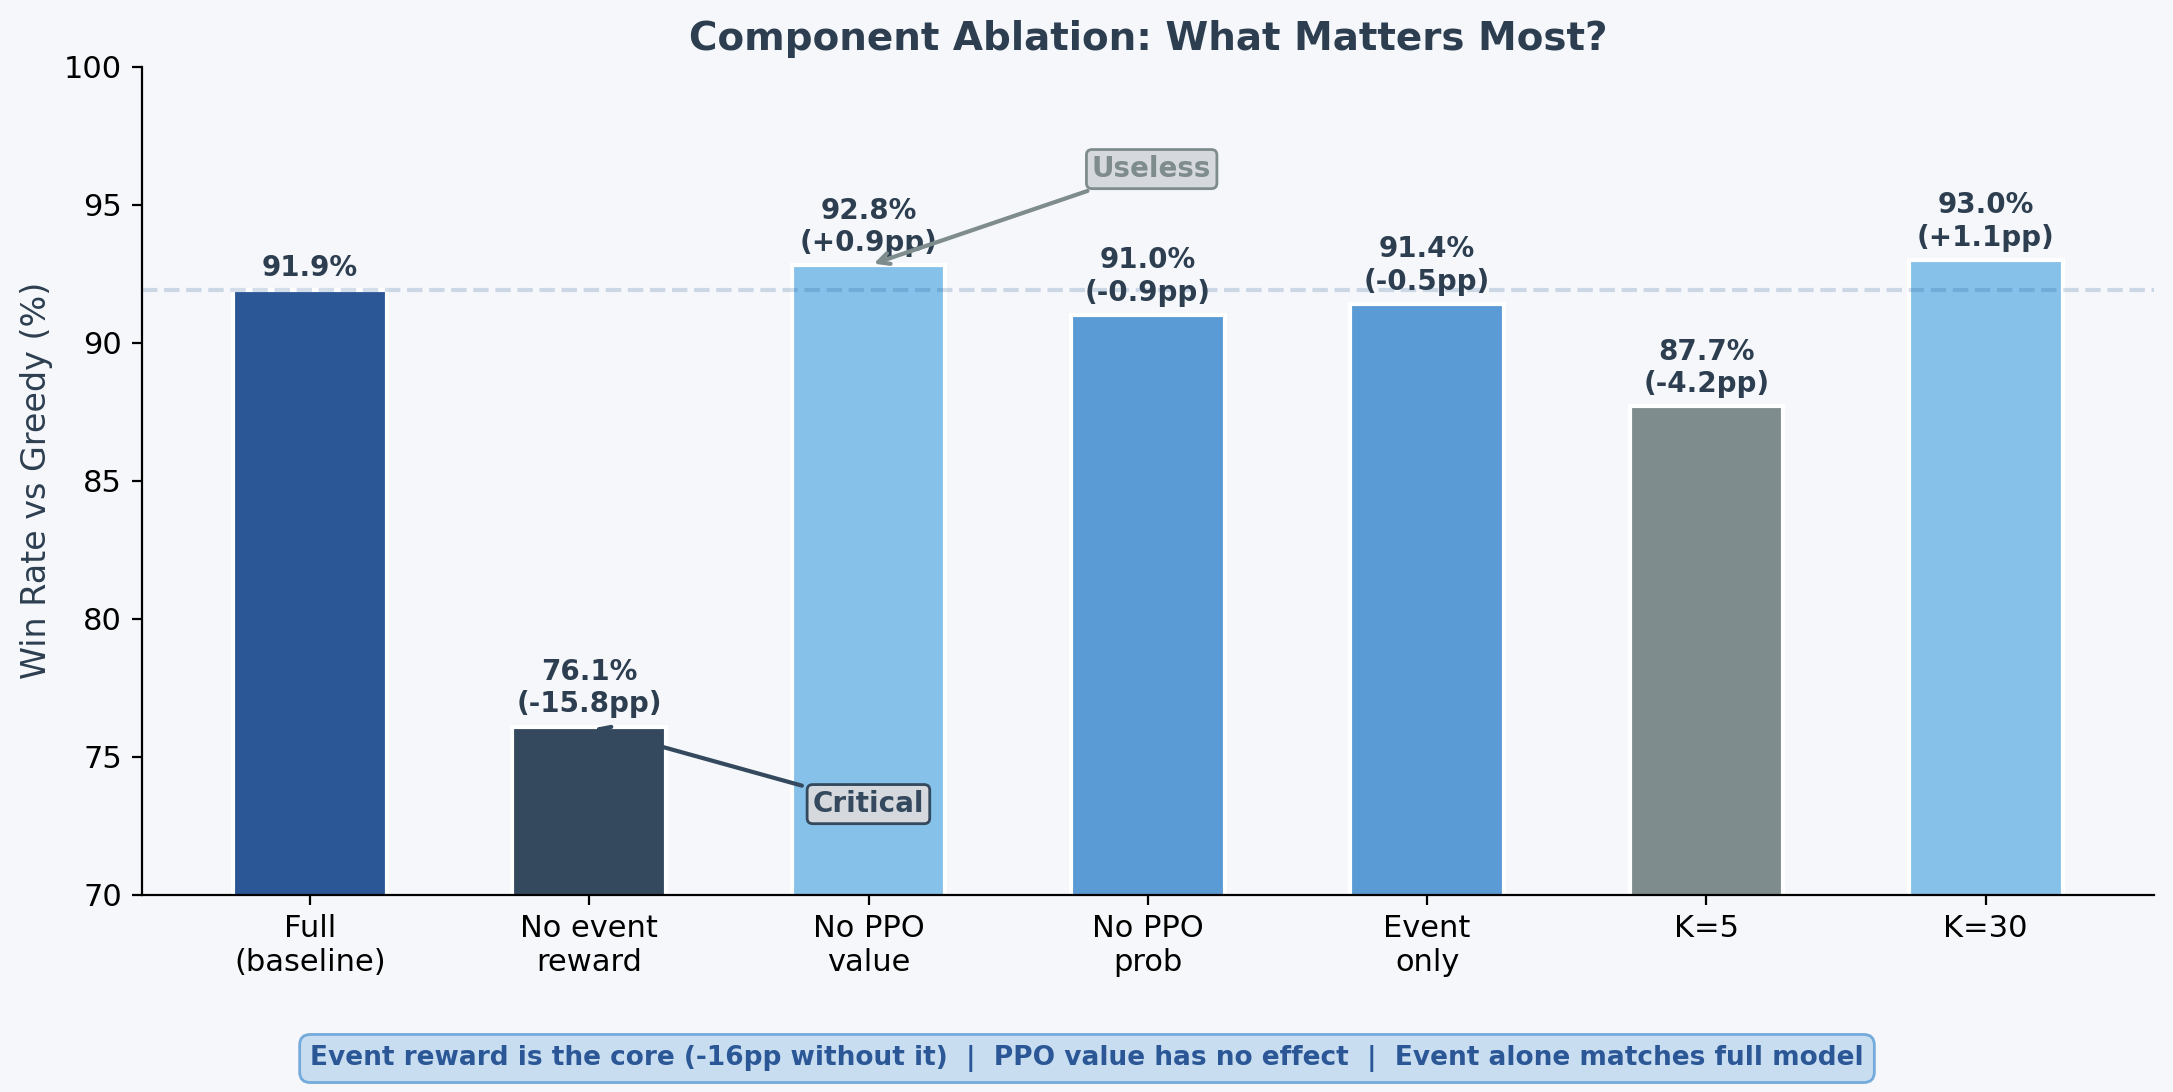
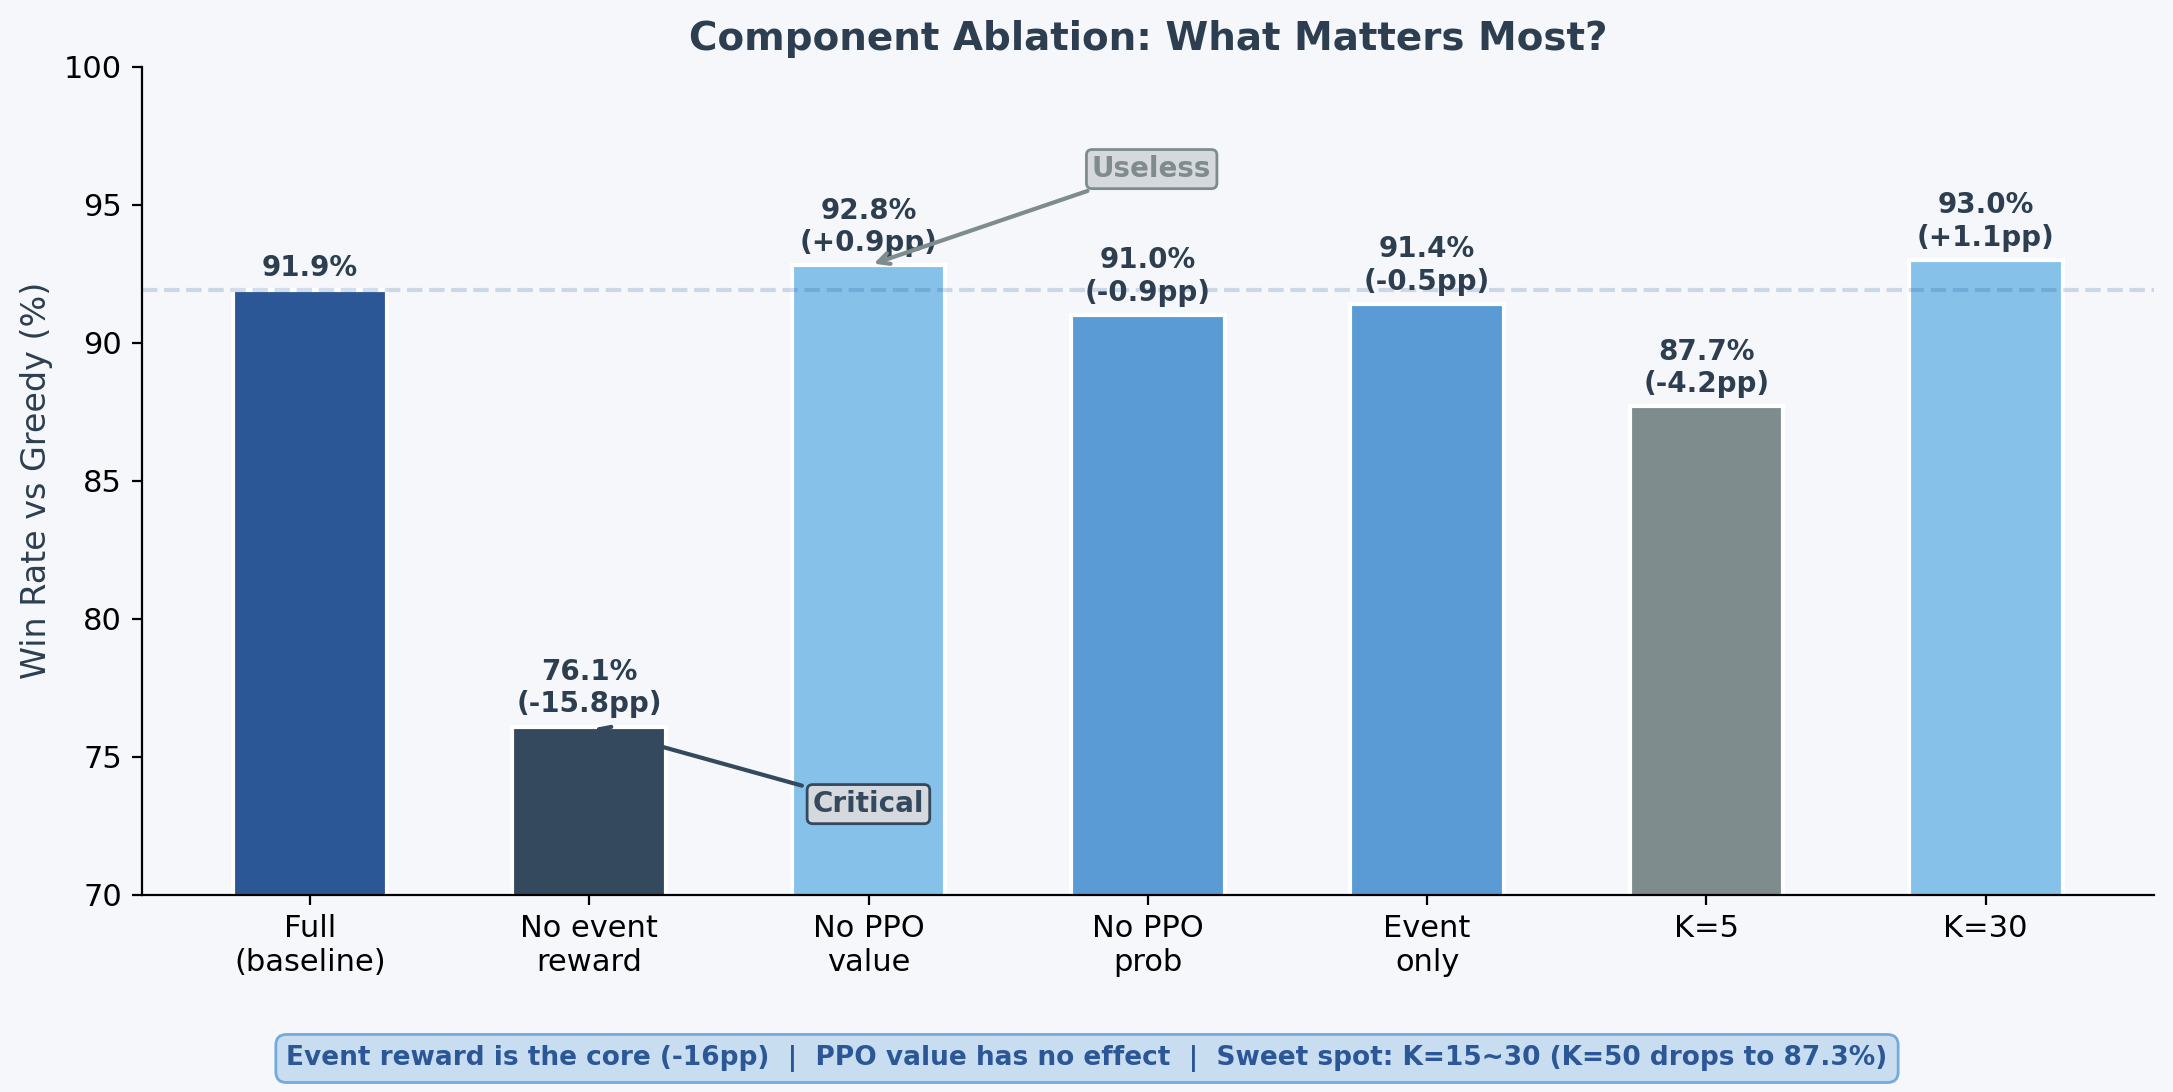
Add K=50 ablation (87.3% - confirms K=15~30 sweet spot) + updated figures

Changed region(s): [[0.1233, 0.9341, 0.8942, 0.9963]]

diff --git a/project/scripts/generate_figures_v3.py b/project/scripts/generate_figures_v3.py
@@ -74,7 +74,7 @@ ax.annotate('Useless', xy=(2, 92.8), xytext=(2.8, 96),
             arrowprops=dict(arrowstyle='->', color=GRAY, lw=1.5),
             bbox=dict(boxstyle='round,pad=0.2', facecolor=LIGHT_GRAY, edgecolor=GRAY))
 
-bottom_box(fig, 'Event reward is the core (-16pp without it)  |  PPO value has no effect  |  Event alone matches full model')
+bottom_box(fig, 'Event reward is the core (-16pp)  |  PPO value has no effect  |  Sweet spot: K=15~30 (K=50 drops to 87.3%)')
 plt.tight_layout(rect=[0, 0.07, 1, 1])
 plt.savefig(f'{OUT}/04_component_ablation.png', bbox_inches='tight')
 plt.close()

diff --git a/project/experiments/evaluation/robust/ppo_lookahead/ablation/ppo_lookahead_ablation_k50_20260415_185403.md b/project/experiments/evaluation/robust/ppo_lookahead/ablation/ppo_lookahead_ablation_k50_20260415_185403.md
@@ -1,0 +1,10 @@
+# PPO+Lookahead Evaluation — ablation_k50
+
+- depth=1, top_k=50
+- α=0.3, β=0.5, γ=0.2
+- Games: 1000
+
+| Opponent | Win Rate | 95% CI | Avg Pts | Avg Opp Pts | sec/game |
+|----------|----------|--------|---------|-------------|----------|
+| Random | 99.4% | [98.7%,99.7%] | 15.69 | 0.61 | 3.46 |
+| Greedy | 87.3% | [85.1%,89.2%] | 15.1 | 9.0 | 10.62 |
